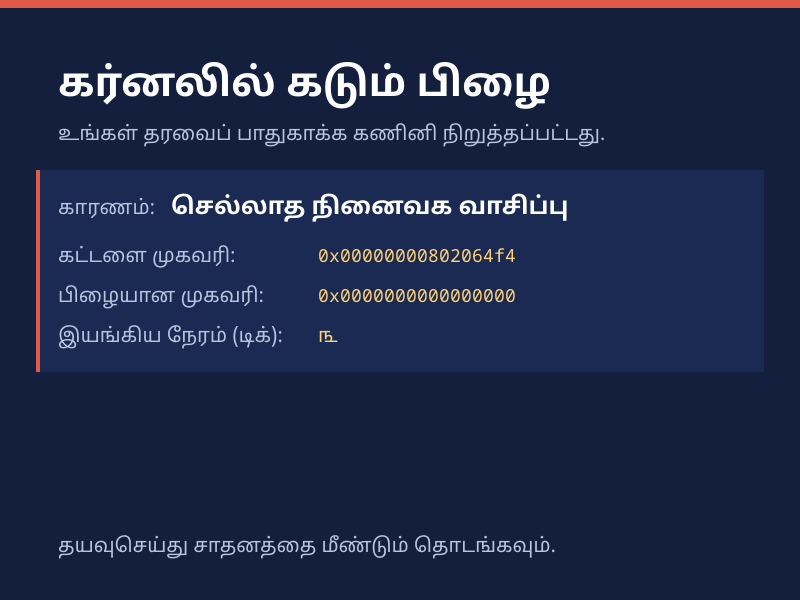
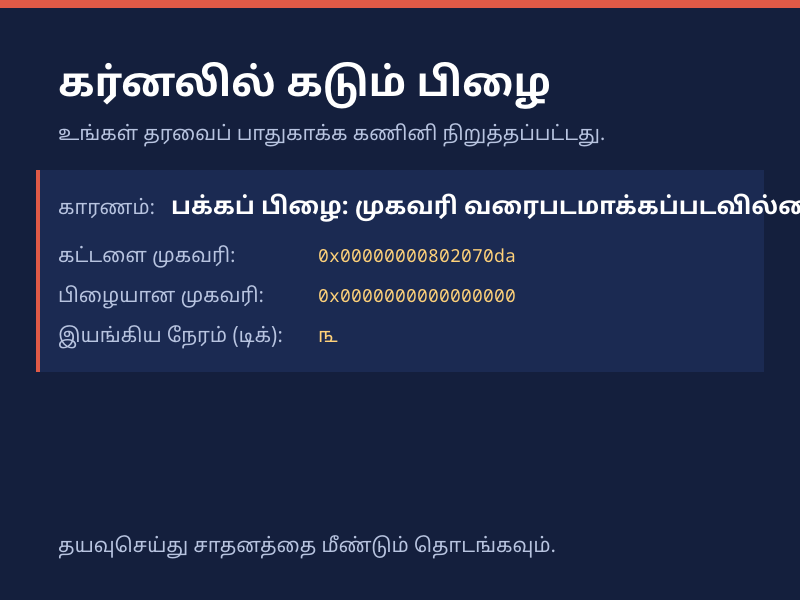
Add Sv39 paging with per-section protection and a kernel test matrix
The kernel identity-maps itself with section permissions (code r-x,
rodata r--, data/bss/stack rw-), maps RAM from the device tree and the
UART, fw_cfg and test devices, and leaves address 0 unmapped. Null
pointer accesses are now page faults, and a write into kernel code is
reported as a write to read-only memory (new message in all three
languages, demo=readonly).

cargo xtask test boots every language with every demo fault and checks
the exit status, the boot message and the localized cause line against
messages.toml: 18 boots.

Changed region(s): [[0.2188, 0.3, 1.0, 0.39], [0.5938, 0.42, 0.6562, 0.45]]

diff --git a/kernel/src/mm.rs b/kernel/src/mm.rs
@@ -1,0 +1,165 @@
+//! Physical frames and Sv39 paging.
+//!
+//! The kernel is identity-mapped (virtual = physical) with per-section
+//! permissions: code is read/execute, read-only data is read-only, and data,
+//! .bss, the stack and the rest of RAM are read/write. Device registers are
+//! mapped read/write. Address 0 and everything else stays unmapped, so a
+//! null pointer or a write into the kernel's own code is caught as a page
+//! fault instead of silently corrupting memory.
+
+use core::arch::asm;
+use core::sync::atomic::{AtomicUsize, Ordering};
+
+pub const PAGE_SIZE: usize = 4096;
+
+const V: u64 = 1 << 0;
+const R: u64 = 1 << 1;
+const W: u64 = 1 << 2;
+const X: u64 = 1 << 3;
+const G: u64 = 1 << 5;
+// Accessed/Dirty are set up front: hardware need not maintain them.
+const A: u64 = 1 << 6;
+const D: u64 = 1 << 7;
+
+pub const READ_ONLY: u64 = R | A;
+pub const READ_EXEC: u64 = R | X | A;
+pub const READ_WRITE: u64 = R | W | A | D;
+
+/// Device MMIO regions used by the kernel: (base, size).
+const DEVICES: [(usize, usize); 3] = [
+    (0x0010_0000, PAGE_SIZE), // QEMU test device (power off)
+    (0x1000_0000, PAGE_SIZE), // UART
+    (0x1010_0000, PAGE_SIZE), // fw_cfg
+];
+
+extern "C" {
+    static __text_start: u8;
+    static __text_end: u8;
+    static __rodata_start: u8;
+    static __rodata_end: u8;
+    static __data_start: u8;
+    static __kernel_end: u8;
+}
+
+fn addr_of(sym: &u8) -> usize {
+    sym as *const u8 as usize
+}
+
+// ---------------------------------------------------------------- frames
+
+/// Bump allocator over the RAM after the kernel image.
+static NEXT_FRAME: AtomicUsize = AtomicUsize::new(0);
+static RAM_END: AtomicUsize = AtomicUsize::new(0);
+
+/// Returns a zeroed, page-aligned physical frame.
+pub fn alloc_frame() -> usize {
+    let frame = NEXT_FRAME.fetch_add(PAGE_SIZE, Ordering::Relaxed);
+    assert!(frame + PAGE_SIZE <= RAM_END.load(Ordering::Relaxed), "out of physical memory");
+    // SAFETY: the frame lies in free RAM above the kernel and is handed out once.
+    unsafe { core::ptr::write_bytes(frame as *mut u8, 0, PAGE_SIZE) };
+    frame
+}
+
+// ---------------------------------------------------------------- page tables
+
+#[repr(C, align(4096))]
+struct Table([u64; 512]);
+
+static ROOT: AtomicUsize = AtomicUsize::new(0);
+
+fn table(addr: usize) -> &'static mut Table {
+    // SAFETY: page tables are frames from alloc_frame, identity-mapped.
+    unsafe { &mut *(addr as *mut Table) }
+}
+
+fn vpn(va: usize, level: usize) -> usize {
+    (va >> (12 + 9 * level)) & 0x1ff
+}
+
+fn pte_addr(pte: u64) -> usize {
+    ((pte >> 10) << 12) as usize
+}
+
+/// Maps one 4 KiB page `va` → `pa` with permission `flags`.
+fn map_page(root: usize, va: usize, pa: usize, flags: u64) {
+    let mut t = root;
+    for level in [2, 1] {
+        let entry = &mut table(t).0[vpn(va, level)];
+        if *entry & V == 0 {
+            let next = alloc_frame();
+            *entry = ((next as u64 >> 12) << 10) | V;
+        }
+        t = pte_addr(*entry);
+    }
+    table(t).0[vpn(va, 0)] = ((pa as u64 >> 12) << 10) | flags | G | V;
+}
+
+fn map_range(root: usize, start: usize, end: usize, flags: u64) {
+    let mut va = start & !(PAGE_SIZE - 1);
+    while va < end {
+        map_page(root, va, va, flags);
+        va += PAGE_SIZE;
+    }
+}
+
+/// Leaf PTE for `va`, if mapped.
+fn lookup(va: usize) -> Option<u64> {
+    let mut t = ROOT.load(Ordering::Relaxed);
+    if t == 0 {
+        return None;
+    }
+    for level in [2, 1, 0] {
+        let entry = table(t).0[vpn(va, level)];
+        if entry & V == 0 {
+            return None;
+        }
+        if entry & (R | X) != 0 || level == 0 {
+            return Some(entry);
+        }
+        t = pte_addr(entry);
+    }
+    None
+}
+
+/// True if `va` is mapped but not writable (for fault reports).
+pub fn is_read_only(va: usize) -> bool {
+    lookup(va).is_some_and(|pte| pte & W == 0)
+}
+
+/// Builds the kernel page table and turns on Sv39 translation.
+pub fn init(ram_start: usize, ram_size: usize) {
+    // SAFETY: linker-provided symbols; only their addresses are used.
+    let (text, text_end, ro, ro_end, data, kernel_end) = unsafe {
+        (
+            addr_of(&__text_start),
+            addr_of(&__text_end),
+            addr_of(&__rodata_start),
+            addr_of(&__rodata_end),
+            addr_of(&__data_start),
+            addr_of(&__kernel_end),
+        )
+    };
+    let ram_end = ram_start + ram_size;
+    NEXT_FRAME.store((kernel_end + PAGE_SIZE - 1) & !(PAGE_SIZE - 1), Ordering::Relaxed);
+    RAM_END.store(ram_end, Ordering::Relaxed);
+
+    let root = alloc_frame();
+    map_range(root, text, text_end, READ_EXEC);
+    map_range(root, ro, ro_end, READ_ONLY);
+    // .data, .bss (including the framebuffer) and the boot stack.
+    map_range(root, data, kernel_end, READ_WRITE);
+    // Free RAM, used for page tables and future allocations.
+    map_range(root, kernel_end, ram_end, READ_WRITE);
+    // OpenSBI owns the RAM below the kernel; leave it unmapped.
+    for (base, size) in DEVICES {
+        map_range(root, base, base + size, READ_WRITE);
+    }
+    ROOT.store(root, Ordering::Relaxed);
+
+    let satp = (8usize << 60) | (root >> 12); // mode 8 = Sv39
+    // SAFETY: the new table identity-maps everything the kernel is
+    // currently executing and touching, so execution continues seamlessly.
+    unsafe {
+        asm!("csrw satp, {}", "sfence.vma", in(reg) satp);
+    }
+}

diff --git a/xtask/src/main.rs b/xtask/src/main.rs
@@ -3,6 +3,7 @@
 //!   cargo xtask build      [--release]
 //!   cargo xtask run        [--lang en|hi|ta] [--demo illegal|load|store|misaligned|panic] [--headless]
 //!   cargo xtask screenshot [--lang ..] [--demo ..] [-o file.png]
+//!   cargo xtask test       [--release]   boot every language × fault and check the reports
 
 use std::env;
 use std::io::{BufRead, BufReader, Write};
@@ -152,6 +153,7 @@ fn main() {
         }
         "run" => exit(run(&o).code().unwrap_or(1)),
         "screenshot" => screenshot(&o),
+        "test" => test(&o),
         other => fail(format!("unknown command '{other}'")),
     }
 }
@@ -239,4 +241,91 @@ fn qmp_screendump(port: u16, out: &Path) -> std::io::Result<()> {
     )?;
     qmp_reply(&mut reader)?;
     Ok(())
+}
+
+/// Demo fault → the messages.toml key of the cause the kernel must report.
+const FAULTS: [(&str, &str); 5] = [
+    ("illegal", "cause_illegal_instruction"),
+    ("load", "cause_page_fault"),
+    ("readonly", "cause_write_protected"),
+    ("misaligned", "cause_misaligned"),
+    ("panic", "cause_kernel_bug"),
+];
+
+/// Boots the kernel headless once per language and fault, checking the
+/// exit status and that the serial report names the right cause in the
+/// right language.
+fn test(o: &Opts) {
+    let kernel = build(o.release);
+    let messages: toml::Table = std::fs::read_to_string(kernel_dir().join("messages.toml"))
+        .ok()
+        .and_then(|s| s.parse().ok())
+        .unwrap_or_else(|| fail("cannot read kernel/messages.toml"));
+    let text = |key: &str, lang: &str| -> String {
+        messages[key][lang]
+            .as_str()
+            .unwrap_or_else(|| fail(format!("{key}.{lang} missing")))
+            .to_string()
+    };
+
+    let mut failures = 0;
+    let mut runs = 0;
+    for lang in ["en", "hi", "ta"] {
+        let mut cases: Vec<(Option<&str>, Option<&str>)> = vec![(None, None)];
+        cases.extend(FAULTS.iter().map(|(d, k)| (Some(*d), Some(*k))));
+        for (demo, cause) in cases {
+            runs += 1;
+            let mut cmdline = format!("lang={lang} exit");
+            if let Some(d) = demo {
+                cmdline.push_str(&format!(" demo={d}"));
+            }
+            let out = qemu_command(&kernel, &cmdline, true)
+                .stdin(Stdio::null())
+                .output()
+                .unwrap_or_else(|e| fail(format!("cannot start QEMU: {e}")));
+            let serial = String::from_utf8_lossy(&out.stdout);
+            let mut problems = Vec::new();
+            let expected_code = if demo.is_some() { 1 } else { 0 };
+            if out.status.code() != Some(expected_code) {
+                problems.push(format!(
+                    "exit status {:?}, expected {expected_code}",
+                    out.status.code()
+                ));
+            }
+            if !serial.contains(&text("boot", lang)) {
+                problems.push("boot message missing".into());
+            }
+            if let Some(key) = cause {
+                let want = format!("{} {}", text("cause_label", lang), text(key, lang));
+                if !serial.contains(&want) {
+                    problems.push(format!("expected `{want}` in the report"));
+                }
+                if !serial.contains("[omni] panic screen drawn") {
+                    problems.push("panic screen not drawn".into());
+                }
+            }
+            let label = format!("lang={lang} demo={}", demo.unwrap_or("none"));
+            if problems.is_empty() {
+                println!("ok   {label}");
+            } else {
+                failures += 1;
+                println!("FAIL {label}: {}", problems.join("; "));
+                for line in serial
+                    .lines()
+                    .filter(|l| !l.trim().is_empty())
+                    .rev()
+                    .take(12)
+                    .collect::<Vec<_>>()
+                    .iter()
+                    .rev()
+                {
+                    println!("     | {line}");
+                }
+            }
+        }
+    }
+    println!("\n{} of {runs} boots passed", runs - failures);
+    if failures > 0 {
+        exit(1);
+    }
 }

diff --git a/kernel/src/bootargs.rs b/kernel/src/bootargs.rs
@@ -10,6 +10,8 @@ pub struct BootArgs {
     pub demo: Option<Demo>,
     /// Power off after the panic screen instead of halting (for tests).
     pub exit: bool,
+    /// First RAM region from the device tree: (start, size).
+    pub ram: (usize, usize),
 }
 
 #[derive(Clone, Copy, PartialEq, Eq)]
@@ -18,6 +20,7 @@ pub enum Demo {
     Load,
     Store,
     Misaligned,
+    ReadOnly,
     Panic,
 }
 
@@ -27,6 +30,7 @@ impl BootArgs {
             lang: 0,
             demo: None,
             exit: false,
+            ram: (0x8000_0000, 128 << 20),
         };
         for word in cmdline.split_ascii_whitespace() {
             match word.split_once('=') {
@@ -41,6 +45,7 @@ impl BootArgs {
                         "load" => Some(Demo::Load),
                         "store" => Some(Demo::Store),
                         "misaligned" => Some(Demo::Misaligned),
+                        "readonly" => Some(Demo::ReadOnly),
                         "panic" => Some(Demo::Panic),
                         _ => None,
                     }
@@ -57,9 +62,15 @@ impl BootArgs {
     /// # Safety
     /// `dtb` must be the device tree pointer passed in by the firmware.
     pub unsafe fn from_device_tree(dtb: usize) -> BootArgs {
-        let cmdline = fdt::Fdt::from_ptr(dtb as *const u8)
-            .ok()
-            .and_then(|f| f.chosen().bootargs());
-        BootArgs::parse(cmdline.unwrap_or(""))
+        let Ok(tree) = fdt::Fdt::from_ptr(dtb as *const u8) else {
+            return BootArgs::parse("");
+        };
+        let mut args = BootArgs::parse(tree.chosen().bootargs().unwrap_or(""));
+        if let Some(region) = tree.memory().regions().next() {
+            if let Some(size) = region.size {
+                args.ram = (region.starting_address as usize, size);
+            }
+        }
+        args
     }
 }

diff --git a/kernel/src/main.rs b/kernel/src/main.rs
@@ -6,6 +6,7 @@
 
 mod bootargs;
 mod font;
+mod mm;
 mod ramfb;
 mod report;
 mod sbi;
@@ -58,6 +59,9 @@ extern "C" fn kmain(hart_id: usize, dtb: usize) -> ! {
         messages::LANGS[lang]
     );
 
+    mm::init(args.ram.0, args.ram.1);
+    println!("[omni] paging on: {} MiB of RAM, kernel sections protected", args.ram.1 >> 20);
+
     match ramfb::init() {
         Some(fb) => {
             screen::boot(fb, lang);
@@ -92,13 +96,15 @@ fn trigger(demo: Demo) -> ! {
     unsafe {
         match demo {
             Demo::Illegal => asm!("unimp"),
-            // Nothing is mapped at address 0 on the virt machine.
+            // Address 0 is never mapped.
             Demo::Load => {
                 core::ptr::read_volatile(core::ptr::null::<u64>());
             }
             Demo::Store => core::ptr::write_volatile(core::ptr::null_mut::<u64>(), 0xdead),
             // Atomic operations must be naturally aligned; firmware does not
             // emulate misaligned atomics, so this reaches the kernel.
+            // Kernel code is mapped read/execute only.
+            Demo::ReadOnly => core::ptr::write_volatile(trigger as *const () as *mut u32, 0),
             Demo::Misaligned => {
                 let word = 0x8020_0001usize as *mut u32;
                 asm!("amoadd.w zero, zero, ({})", in(reg) word);

diff --git a/kernel/src/report.rs b/kernel/src/report.rs
@@ -37,6 +37,7 @@ pub enum Cause {
     StoreAccess,
     Misaligned,
     PageFault,
+    WriteProtected,
     KernelBug,
     /// Raw `scause` value.
     Unknown(usize),
@@ -50,6 +51,7 @@ impl Cause {
             Cause::StoreAccess => &m::CAUSE_STORE_ACCESS,
             Cause::Misaligned => &m::CAUSE_MISALIGNED,
             Cause::PageFault => &m::CAUSE_PAGE_FAULT,
+            Cause::WriteProtected => &m::CAUSE_WRITE_PROTECTED,
             Cause::KernelBug => &m::CAUSE_KERNEL_BUG,
             Cause::Unknown(_) => &m::CAUSE_UNKNOWN,
         }
@@ -62,6 +64,7 @@ impl Cause {
             Cause::StoreAccess => &text::CAUSE_STORE_ACCESS,
             Cause::Misaligned => &text::CAUSE_MISALIGNED,
             Cause::PageFault => &text::CAUSE_PAGE_FAULT,
+            Cause::WriteProtected => &text::CAUSE_WRITE_PROTECTED,
             Cause::KernelBug => &text::CAUSE_KERNEL_BUG,
             Cause::Unknown(_) => &text::CAUSE_UNKNOWN,
         }

diff --git a/kernel/src/trap.rs b/kernel/src/trap.rs
@@ -129,6 +129,7 @@ extern "C" fn trap_handler(frame: &mut TrapFrame) {
         1 | 5 => Cause::LoadAccess,
         7 => Cause::StoreAccess,
         0 | 4 | 6 => Cause::Misaligned,
+        15 if crate::mm::is_read_only(stval) => Cause::WriteProtected,
         12 | 13 | 15 => Cause::PageFault,
         other => Cause::Unknown(other),
     };
